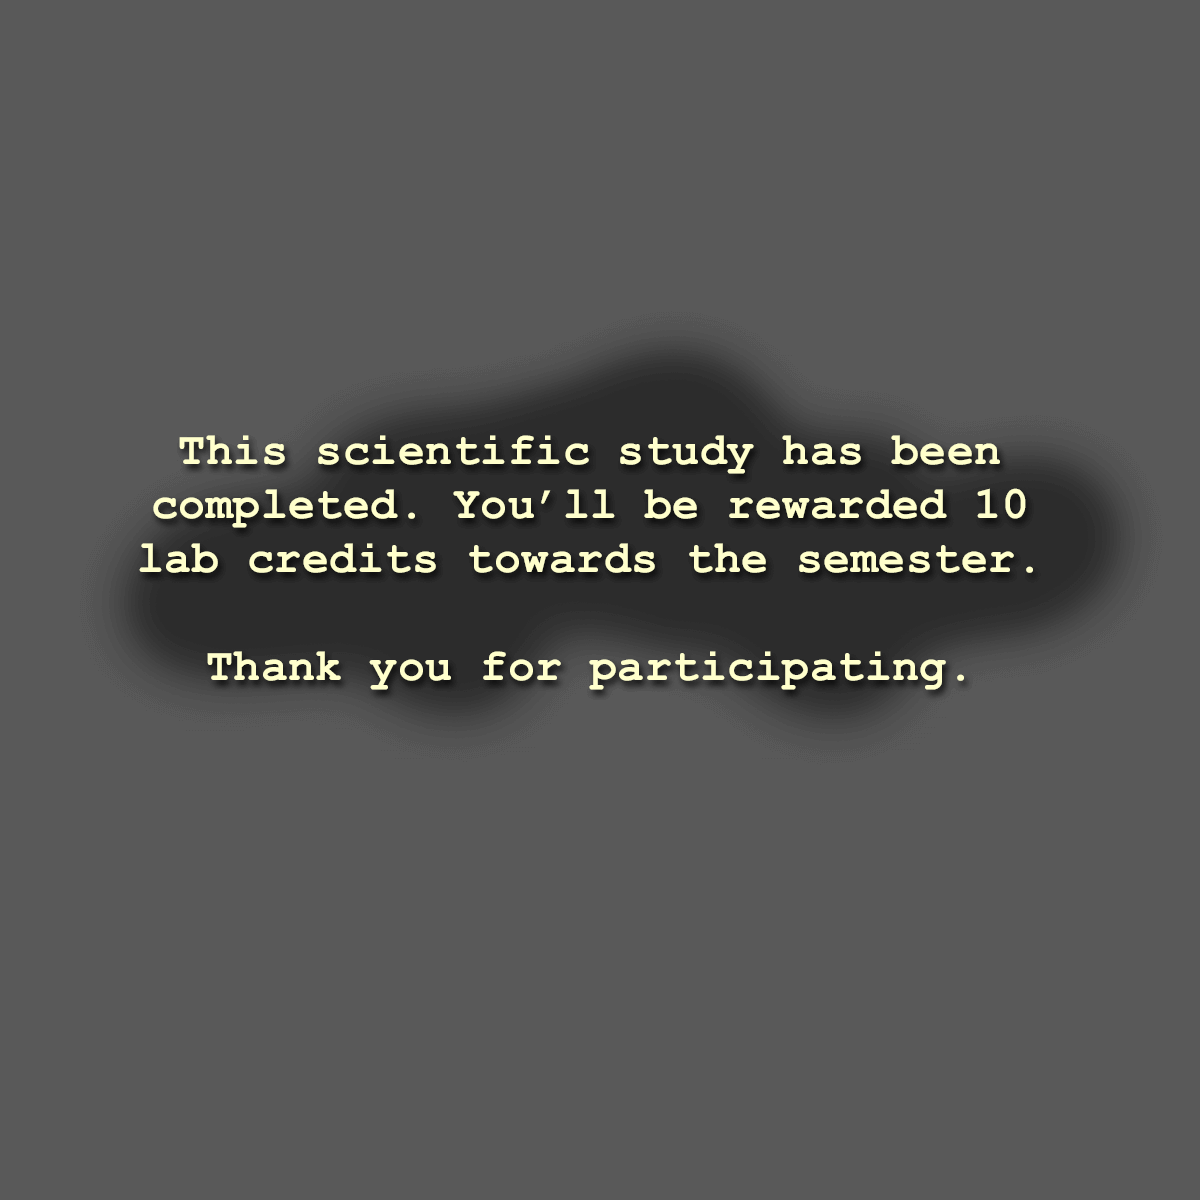
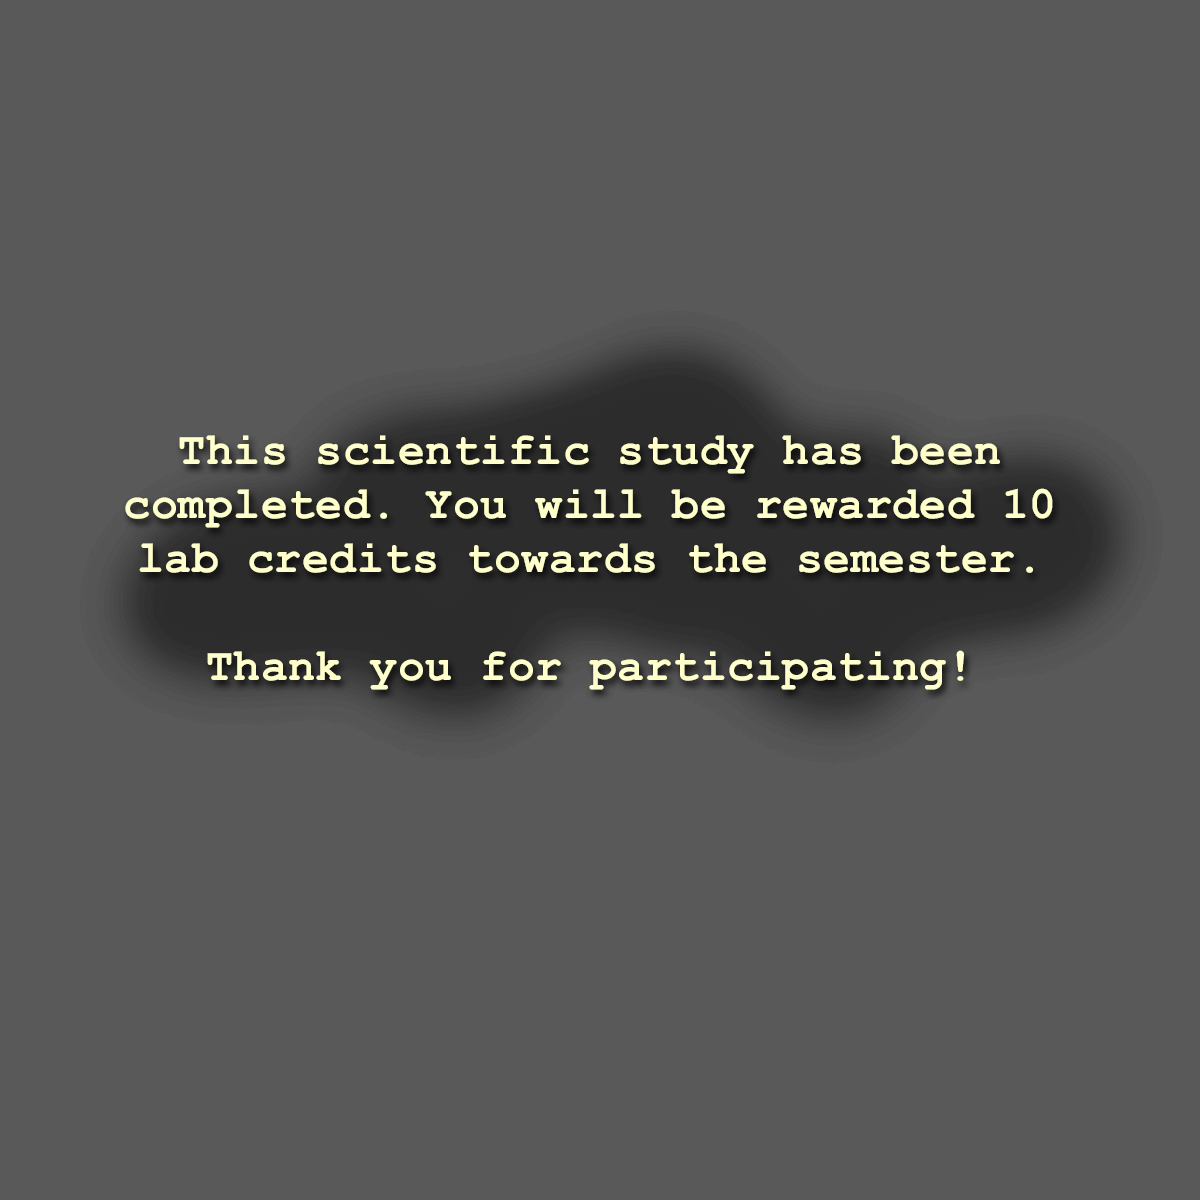
Added sound effects and adjusted text.

Changed region(s): [[0.0925, 0.4008, 0.4933, 0.4317], [0.5242, 0.4008, 0.8942, 0.4317]]

diff --git a/assets/js/Game.js b/assets/js/Game.js
@@ -14,6 +14,8 @@ var Game = (function() {
 		var GAME_WIDTH = 1200;
 		var GAME_HEIGHT = 1200;
 		var SCALE = 2;
+		var SFX_VOLUME = 0.5;
+		var CLICK_VOLUME = 0.1;
 
 
 	//////////////////////////////////////////////////
@@ -58,8 +60,13 @@ var Game = (function() {
 				{id:'txt-title',		src:'assets/img/txt-title.png'},
 				{id:'txt-your-turn',	src:'assets/img/txt-your-turn.png'},
 				// sounds
-				//{id:'music',		src:'assets/snd/music.ogg'},
-				//{id:'explosion',	src:'assets/snd/fx-explosion.ogg'}
+				{id:'blob-move',		src:'assets/snd/blob-move.ogg'},
+				{id:'blob-select',		src:'assets/snd/blob-select.ogg'},
+				{id:'click',			src:'assets/snd/click.ogg'},
+				{id:'show-game-over',	src:'assets/snd/show-game-over.ogg'},
+				{id:'show-overview',	src:'assets/snd/show-overview.ogg'},
+				{id:'show-results',		src:'assets/snd/show-results.ogg'},
+				{id:'show-your-turn',	src:'assets/snd/show-your-turn.ogg'}
 			]);
 
 		};
@@ -310,11 +317,16 @@ var Game = (function() {
 			*/
 
 			this.nextPlayerMove = null;
-			if (this.level === this.totalLevels) {
-				this.showText('game-over');
-			} else {
-				this.showText('results');
-			}
+			this.player = 0;
+
+			var self = this;
+			setTimeout(function(){
+				if (self.level === self.totalLevels) {
+					self.showText('game-over');
+				} else {
+					self.showText('results');
+				}
+			}, 1000);
 		};
 
 
@@ -331,27 +343,36 @@ var Game = (function() {
 
 			// draw move locations
 			if (this.moves !== null && this.player > 0 && this.txtDisplayed === '') {
-				for (y=0; y<this.moves.length; ++y) {
-					for (x=0; x<this.moves[y].length; ++x) {
-						if (this.moves[y][x].length > 0) {
-							var color = COLORS[ this.player ];
-							var alpha = 0.4;
-							if (this.nextPlayerMove !== null) {
-								alpha = 0.0;
-								if (this.nextPlayerMove.column === x && this.nextPlayerMove.row === y) {
-									alpha = 0.6;
-								}
-							} else if (this.player === 1 && this.overTile !== null && this.overTile.column === x && this.overTile.row === y) {
-								alpha = 0.6;
-							}
+				if (this.nextPlayerMove !== null) {
+					var color = COLORS[ this.player ];
+					var move = this.moves[this.nextPlayerMove.row][this.nextPlayerMove.column];
+					for (var i=0, l=move.length; i<l; ++i) {
+						this.grid.drawTile(
+							this.gridContext,
+							move[i].column,
+							move[i].row,
+							'transparent',
+							'rgba(' + color.r + ',' + color.g + ',' + color.b + ',' + 0.5 + ')'
+						);
 
-							this.grid.drawTile(
-								this.gridContext,
-								x,
-								y,
-								'transparent',
-								'rgba(' + color.r + ',' + color.g + ',' + color.b + ',' + alpha + ')'
-							);
+					}
+				} else {
+					for (y=0; y<this.moves.length; ++y) {
+						for (x=0; x<this.moves[y].length; ++x) {
+							if (this.moves[y][x].length > 0) {
+								var color = COLORS[ this.player ];
+								var alpha = 0.3;
+								if (this.player === 1 && this.overTile !== null && this.overTile.column === x && this.overTile.row === y) {
+									alpha = 0.5;
+								}
+								this.grid.drawTile(
+									this.gridContext,
+									x,
+									y,
+									'transparent',
+									'rgba(' + color.r + ',' + color.g + ',' + color.b + ',' + alpha + ')'
+								);
+							}
 						}
 					}
 				}
@@ -410,7 +431,11 @@ var Game = (function() {
 
 			var self = this;
 
+			createjs.Sound.play('blob-select', {volume:SFX_VOLUME});
+
 			setTimeout(function(){
+
+				createjs.Sound.play('blob-move', {volume:SFX_VOLUME});
 
 				// make move
 				var move = self.moves[row][column];
@@ -532,6 +557,24 @@ var Game = (function() {
 			this.txtYourTurn.visible = (txt === 'your-turn') ? true : false;
 			this.click.visible = (txt === '' || txt === 'your-turn') ? false : true;
 
+			switch (txt) {
+				case 'level-1':
+				case 'level-2':
+				case 'level-3':
+					createjs.Sound.play('show-overview', {volume:SFX_VOLUME});
+					break;
+				case 'title':
+				case 'results':
+					createjs.Sound.play('show-results', {volume:SFX_VOLUME});
+					break;
+				case 'game-over':
+					createjs.Sound.play('show-game-over', {volume:SFX_VOLUME});
+					break;
+				case 'your-turn':
+					createjs.Sound.play('show-your-turn', {volume:SFX_VOLUME});
+					break;
+			}
+
 			if (txt === 'your-turn') {
 				var self = this;
 				setTimeout(function(){
@@ -552,15 +595,19 @@ var Game = (function() {
 					case 'level-1':
 					case 'level-2':
 					case 'level-3':
+						createjs.Sound.play('click', {volume:CLICK_VOLUME});
 						this.showText('your-turn');
 						break;
 					case 'game-over':
+						createjs.Sound.play('click', {volume:CLICK_VOLUME});
 						this.showText('title');
 						break;
 					case 'results':
+						createjs.Sound.play('click', {volume:CLICK_VOLUME});
 						this.loadLevel(this.level + 1);
 						break;
 					case 'title':
+						createjs.Sound.play('click', {volume:CLICK_VOLUME});
 						this.loadLevel(1);
 						break;
 				}
@@ -575,6 +622,7 @@ var Game = (function() {
 				);
 				if (tile !== null && this.player === 1 && this.nextPlayerMove === null) {
 					if (this.moves !== null && this.moves[tile.row][tile.column].length > 0) {
+						createjs.Sound.play('click', {volume:CLICK_VOLUME});
 						this.makeMove(tile.column, tile.row);
 					}
 				}

diff --git a/README.md b/README.md
@@ -4,6 +4,4 @@ My second game jam and I'm using:
 
 * [CreateJS](http://www.createjs.com/)
 * [BBEdit](http://www.barebones.com/products/bbedit/)
-* [cfxr](http://thirdcog.eu/apps/cfxr)
-* [PixiTracker 1Bit](http://www.warmplace.ru/soft/pixitracker/)
 * [Photoshop](http://www.adobe.com/products/photoshop.html)
